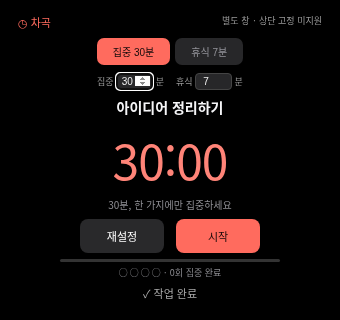
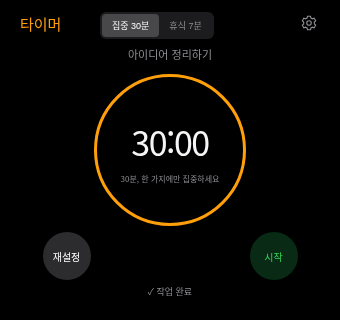
Restore Apple Clock style with orange ring and round controls

Changed region(s): [[0.1176, 0.0312, 0.8824, 0.9375], [0.7647, 0.0312, 0.9412, 0.0938], [0.0588, 0.0312, 0.1765, 0.0938]]

diff --git a/app.js b/app.js
@@ -53,8 +53,9 @@ $('#float-timer').onclick=async()=>{
   if(!floatingWindow){toast('팝업이 차단되었어요. 이 사이트의 팝업을 허용해 주세요.');return}
   const doc=floatingWindow.document;
   doc.documentElement.lang='ko';doc.head.innerHTML='<meta name="viewport" content="width=device-width,initial-scale=1"><title>차곡 · 시계</title>';
-  const style=doc.createElement('style');style.textContent=`*{box-sizing:border-box}body{margin:0;background:#000;color:#f5f5f7;font-family:-apple-system,BlinkMacSystemFont,"Noto Sans KR",sans-serif;text-align:center;padding:22px}header{display:flex;justify-content:space-between;color:#999;font-size:11px}header b{color:#ff9f0a;font-size:13px;font-weight:500}h2{font-size:18px;margin:28px 0 8px;overflow:hidden;text-overflow:ellipsis;white-space:nowrap}p{font-size:11px;color:#8e8e93}.ring{border:5px solid #ff9f0a;border-radius:50%;width:220px;height:220px;margin:22px auto;display:flex;flex-direction:column;align-items:center;justify-content:center}#mini-timer{font-size:40px;font-weight:200;font-variant-numeric:tabular-nums;letter-spacing:-2px}small{font-size:11px;color:#8e8e93;margin-top:10px}.actions{display:flex;justify-content:space-between;max-width:250px;margin:auto}button{cursor:pointer;border:0;border-radius:50%;width:66px;height:66px;background:#29292b;color:#fff;font-size:12px}.primary{background:#092b16;color:#32d74b}.primary.running{background:#332000;color:#ff9f0a}.complete{width:100%;height:32px;border-radius:8px;margin-top:18px;color:#ff9f0a;background:transparent}`;style.textContent+=`body{padding:14px 18px}header{font-size:9px}header b{font-size:11px}h2{font-size:14px;margin:14px 0 4px}p{font-size:10px;margin:0}.ring{border:0;border-radius:0;width:auto;height:auto;margin:18px auto 14px}#mini-timer{font-size:49px;font-weight:200;color:#ff9f0a;letter-spacing:-2px}small{font-size:10px;margin-top:5px}.actions{max-width:220px}button{width:54px;height:54px;font-size:11px}.complete{margin-top:8px;height:28px;font-size:11px}`;style.textContent+=`header b{color:#ff6b5e}.pomo-tabs{display:flex;gap:5px;justify-content:center;margin:15px 0 0}.pomo-tabs button{width:auto;height:27px;padding:0 16px;border-radius:7px;background:#272729;color:#939399;font-size:10px}.pomo-tabs .selected{background:#ff6b5e;color:#160b0b}h2{margin:12px 0 4px}.ring{margin:12px auto}#mini-timer{color:#ff8478;font-size:52px;letter-spacing:-1px;font-weight:300}.actions{justify-content:center;gap:12px}.actions button{height:34px;border-radius:8px;width:84px}.actions .primary{background:#ff6b5e;color:#190909}.actions .primary.running{background:#502b29;color:#ffb3aa}.pomo-track{height:3px;border-radius:3px;background:#333;margin:10px auto 0;max-width:220px;overflow:hidden}.pomo-track div{height:100%;background:#ff6b5e}#mini-pomo-count{color:#8e8e93;font-size:9px;margin:7px 0}.complete{margin:0;height:22px;color:#aaa}body[data-phase=break] #mini-timer{color:#80cfb5}body[data-phase=break] .pomo-tabs .selected{background:#80cfb5}`;style.textContent+=`.pomo-settings{display:flex;justify-content:center;gap:12px;margin-top:8px;font-size:9px;color:#999}.pomo-settings input{width:37px;background:#272729;color:#eee;border:1px solid #444;border-radius:4px;padding:2px;text-align:center;font-size:10px}h2{margin-top:8px}.pomo-tabs{margin-top:8px}.ring{margin:8px auto}.pomo-track{margin-top:7px}#mini-pomo-count{margin:5px 0}`;style.textContent+=`#mini-focus-course{display:none}h2{margin:7px 0 0}.ring{margin:7px auto}#mini-timer{font-size:48px}small{margin-top:3px}.pomo-track{margin-top:6px}.complete{height:20px}#mini-pomo-count{margin:4px 0}`;doc.head.append(style);
-  doc.body.innerHTML=`<header><b>◷ 차곡</b><span>${pinned?'항상 위에 표시 중':'별도 창 · 상단 고정 미지원'}</span></header><div class="pomo-tabs"><button id="mini-pomo-focus">집중 25분</button><button id="mini-pomo-break">휴식 5분</button></div><div class="pomo-settings"><label>집중 <input id="mini-focus-minutes" type="number" min="1" max="180" aria-label="집중 시간"> 분</label><label>휴식 <input id="mini-break-minutes" type="number" min="1" max="180" aria-label="휴식 시간"> 분</label></div><h2 id="mini-focus-name"></h2><p id="mini-focus-course"></p><div class="ring"><span id="mini-timer"></span><small id="mini-timer-state"></small></div><div class="actions"><button id="mini-reset">재설정</button><button id="mini-toggle" class="primary">시작</button></div><div class="pomo-track"><div id="mini-pomo-progress"></div></div><p id="mini-pomo-count"></p><button class="complete" id="mini-complete">✓ 작업 완료</button>`;
+  const style=doc.createElement('style');style.textContent=`*{box-sizing:border-box}body{margin:0;background:#000;color:#f5f5f7;font-family:-apple-system,BlinkMacSystemFont,"Noto Sans KR",sans-serif;text-align:center;padding:22px}header{display:flex;justify-content:space-between;color:#999;font-size:11px}header b{color:#ff9f0a;font-size:13px;font-weight:500}h2{font-size:18px;margin:28px 0 8px;overflow:hidden;text-overflow:ellipsis;white-space:nowrap}p{font-size:11px;color:#8e8e93}.ring{border:5px solid #ff9f0a;border-radius:50%;width:220px;height:220px;margin:22px auto;display:flex;flex-direction:column;align-items:center;justify-content:center}#mini-timer{font-size:40px;font-weight:200;font-variant-numeric:tabular-nums;letter-spacing:-2px}small{font-size:11px;color:#8e8e93;margin-top:10px}.actions{display:flex;justify-content:space-between;max-width:250px;margin:auto}button{cursor:pointer;border:0;border-radius:50%;width:66px;height:66px;background:#29292b;color:#fff;font-size:12px}.primary{background:#092b16;color:#32d74b}.primary.running{background:#332000;color:#ff9f0a}.complete{width:100%;height:32px;border-radius:8px;margin-top:18px;color:#ff9f0a;background:transparent}`;style.textContent+=`body{padding:14px 18px}header{font-size:9px}header b{font-size:11px}h2{font-size:14px;margin:14px 0 4px}p{font-size:10px;margin:0}.ring{border:0;border-radius:0;width:auto;height:auto;margin:18px auto 14px}#mini-timer{font-size:49px;font-weight:200;color:#ff9f0a;letter-spacing:-2px}small{font-size:10px;margin-top:5px}.actions{max-width:220px}button{width:54px;height:54px;font-size:11px}.complete{margin-top:8px;height:28px;font-size:11px}`;style.textContent+=`header b{color:#ff6b5e}.pomo-tabs{display:flex;gap:5px;justify-content:center;margin:15px 0 0}.pomo-tabs button{width:auto;height:27px;padding:0 16px;border-radius:7px;background:#272729;color:#939399;font-size:10px}.pomo-tabs .selected{background:#ff6b5e;color:#160b0b}h2{margin:12px 0 4px}.ring{margin:12px auto}#mini-timer{color:#ff8478;font-size:52px;letter-spacing:-1px;font-weight:300}.actions{justify-content:center;gap:12px}.actions button{height:34px;border-radius:8px;width:84px}.actions .primary{background:#ff6b5e;color:#190909}.actions .primary.running{background:#502b29;color:#ffb3aa}.pomo-track{height:3px;border-radius:3px;background:#333;margin:10px auto 0;max-width:220px;overflow:hidden}.pomo-track div{height:100%;background:#ff6b5e}#mini-pomo-count{color:#8e8e93;font-size:9px;margin:7px 0}.complete{margin:0;height:22px;color:#aaa}body[data-phase=break] #mini-timer{color:#80cfb5}body[data-phase=break] .pomo-tabs .selected{background:#80cfb5}`;style.textContent+=`.pomo-settings{display:flex;justify-content:center;gap:12px;margin-top:8px;font-size:9px;color:#999}.pomo-settings input{width:37px;background:#272729;color:#eee;border:1px solid #444;border-radius:4px;padding:2px;text-align:center;font-size:10px}h2{margin-top:8px}.pomo-tabs{margin-top:8px}.ring{margin:8px auto}.pomo-track{margin-top:7px}#mini-pomo-count{margin:5px 0}`;style.textContent+=`#mini-focus-course{display:none}h2{margin:7px 0 0}.ring{margin:7px auto}#mini-timer{font-size:48px}small{margin-top:3px}.pomo-track{margin-top:6px}.complete{height:20px}#mini-pomo-count{margin:4px 0}`;style.textContent+=`body{padding:12px 20px;font-family:-apple-system,BlinkMacSystemFont,"Helvetica Neue",sans-serif}header{height:22px;align-items:center}header b{font-size:15px;color:#ff9f0a;font-weight:500}#mini-settings-toggle{background:transparent;width:26px;height:24px;font-size:20px;color:#8e8e93;border-radius:0}.pomo-tabs{position:absolute;top:12px;left:100px;margin:0;gap:0;background:#1c1c1e;border-radius:6px;padding:2px}.pomo-tabs button{background:transparent;height:23px;font-size:9px;padding:0 10px;color:#8e8e93;border-radius:4px}.pomo-tabs .selected,body[data-phase=break] .pomo-tabs .selected{background:#48484a;color:#fff}.pomo-settings{position:absolute;top:43px;left:20px;right:20px;z-index:2;background:#2c2c2e;border:1px solid #48484a;border-radius:10px;padding:16px 8px;box-shadow:0 10px 30px #000b;margin:0;color:#eee;font-size:11px}.pomo-settings[hidden]{display:none}.pomo-settings input{font-size:13px;width:43px;padding:5px}h2{font-size:11px;font-weight:400;color:#8e8e93;margin:12px 0 0}.ring{border:3px solid #ff9f0a;border-radius:50%;width:152px;height:152px;margin:12px auto 10px;position:relative}#mini-timer,body[data-phase=break] #mini-timer{color:#f5f5f7;font-size:34px;letter-spacing:-1.5px;font-weight:200}small{font-size:8px;max-width:130px;margin-top:7px;color:#8e8e93}.actions{justify-content:space-between;max-width:255px;position:relative;margin-top:-4px}.actions button{width:48px;height:48px;border-radius:50%;background:#2c2c2e;font-size:10px}.actions .primary{background:#092b16;color:#30d158}.actions .primary.running{background:#332000;color:#ff9f0a}.pomo-track,#mini-pomo-count{display:none}.complete{position:absolute;bottom:16px;left:110px;width:120px;font-size:9px;color:#8e8e93;height:25px}`;doc.head.append(style);
+  doc.body.innerHTML=`<header><b>타이머</b><button id="mini-settings-toggle" aria-label="시간 설정"><svg width="18" height="18" viewBox="0 0 24 24" fill="none" stroke="currentColor" stroke-width="1.5"><circle cx="12" cy="12" r="3"/><path d="m10 3 4 0 .6 2.5 2 .9 2.3-.8 2 3.5-1.8 1.7v2.4l1.8 1.7-2 3.5-2.3-.8-2 .9L14 21h-4l-.6-2.5-2-.9-2.3.8-2-3.5 1.8-1.7v-2.4L3.1 9.1l2-3.5 2.3.8 2-.9Z"/></svg></button><span hidden>${pinned?'항상 위에 표시 중':'별도 창 · 상단 고정 미지원'}</span></header><div class="pomo-tabs"><button id="mini-pomo-focus">집중 25분</button><button id="mini-pomo-break">휴식 5분</button></div><div class="pomo-settings" id="mini-settings" hidden><label>집중 <input id="mini-focus-minutes" type="number" min="1" max="180" aria-label="집중 시간"> 분</label><label>휴식 <input id="mini-break-minutes" type="number" min="1" max="180" aria-label="휴식 시간"> 분</label></div><h2 id="mini-focus-name"></h2><p id="mini-focus-course"></p><div class="ring"><span id="mini-timer"></span><small id="mini-timer-state"></small></div><div class="actions"><button id="mini-reset">재설정</button><button id="mini-toggle" class="primary">시작</button></div><div class="pomo-track"><div id="mini-pomo-progress"></div></div><p id="mini-pomo-count"></p><button class="complete" id="mini-complete">✓ 작업 완료</button>`;
+  doc.getElementById('mini-settings-toggle').onclick=()=>{const panel=doc.getElementById('mini-settings');panel.hidden=!panel.hidden};
   for(const id of ['toggle','reset','complete','pomo-focus','pomo-break'])doc.getElementById('mini-'+id).onclick=()=>{document.getElementById(id).click();};
   for(const id of ['focus-minutes','break-minutes'])doc.getElementById('mini-'+id).onchange=e=>{setPomoMinutes(id,e.target.value);syncFloating()};
   syncFloating();

diff --git a/style.css b/style.css
@@ -4,3 +4,5 @@
 :root{font-family:-apple-system,BlinkMacSystemFont,'Noto Sans KR',sans-serif;color:#f5f5f7;background:#000}header{background:#111113;border-color:#262629}.brand{color:#ff9f0a}.brand b{color:#fff}.header-note{color:#8e8e93}.today{background:#242426;color:#b0b0b5}.eyebrow{color:#ff9f0a}.intro p,.workspace-head p{color:#8e8e93}h1{font-weight:600;letter-spacing:-2px;font-size:48px}.intro{margin-bottom:36px}.workspace-head h2 span{background:#30220d;color:#ff9f0a}.primary{background:#ff9f0a;color:#000}.steps{background:#1c1c1e;color:#747479}.steps .selected{color:#ff9f0a}.steps i{color:#48484a}.course{background:#1c1c1e;border-color:#29292c}.course-heading{border-color:#303034}.course-icon,.course:nth-child(2n) .course-icon{background:#33250f;color:#ff9f0a}.course-heading small{color:#8e8e93}.task{border-color:#303034}.task.child{background:#161618}.task.active{background:#30230f}.task-name{color:#f2f2f7}.task-meta{color:#8e8e93}.time-input{background:#2c2c2e;border-color:#3a3a3c;color:#ff9f0a}.task-play{background:#3a2b14;color:#ff9f0a}.check{border-color:#636366}.done .check{background:#ff9f0a;border-color:#ff9f0a;color:#000}.done .task-name{color:#636366}.muted-button{color:#8e8e93}.add-task{color:#ff9f0a}.tip{color:#747479}.timer-panel{background:#1c1c1e;border-color:#29292c;padding:22px}.timer-topbar{display:flex;align-items:center;justify-content:space-between;margin-bottom:21px;font-size:17px;font-weight:600}.timer-topbar button{color:#ff9f0a;font-size:10px;padding:5px 0}.clock-tabs{display:flex;background:#303034;border-radius:8px;padding:3px;margin-bottom:24px}.clock-tabs button{flex:1;color:#99999f;font-size:11px;padding:7px;border-radius:6px}.clock-tabs .tab-active{background:#636366;color:#fff;box-shadow:0 1px 3px #0005}.panel-label{color:#8e8e93;font-size:8px;letter-spacing:2px}.live-dot{background:#ff9f0a}.timer-panel h3{text-align:center;font-weight:500;margin-top:24px}.timer-panel>p{text-align:center;color:#8e8e93}.clock{border:5px solid #ff9f0a;box-shadow:none;width:224px;height:224px;margin:26px auto}.clock>span{font-size:39px;font-weight:200;letter-spacing:-2px}.clock small{color:#8e8e93;font-size:10px}.timer-actions{justify-content:space-between;max-width:232px;margin:auto}.timer-actions .primary,.icon-button{border:0;border-radius:50%;width:67px;height:67px;flex:none;font-size:12px;font-weight:400;padding:0}.timer-actions .primary{background:#092b16;color:#32d74b}.timer-actions .primary.running{background:#332000;color:#ff9f0a}.icon-button{background:#333336;color:#f5f5f7}.complete-button{border-color:#38383b;color:#ff9f0a;margin-top:22px}.timer-foot{color:#747479;font-size:9px;line-height:1.7}.summary{background:#1c1c1e;border-color:#29292c}.summary h3 span{color:#ff9f0a}.summary>div:not(.progress-track){color:#8e8e93}.summary b{color:#ff9f0a}.progress-track{background:#38383b}.progress-track>div{background:#ff9f0a}.summary p,.quote{color:#747479}footer{border-color:#29292c;color:#747479}dialog{background:#1c1c1e;color:#fff;border-color:#38383b}dialog input{background:#303034;color:#fff;border-color:#48484a}dialog p{color:#8e8e93}#toast{background:#3a3a3c;color:#fff;box-shadow:0 5px 25px #0008}.empty{color:#8e8e93}.layout{grid-template-columns:minmax(0,1fr) 330px}@media(max-width:850px){.layout{grid-template-columns:1fr}h1{font-size:39px}}@media(max-width:520px){h1{font-size:36px}}
 .pomo-tabs{display:flex;justify-content:center;gap:7px;margin:8px 0 15px}.pomo-tabs button{padding:8px 15px;background:#2c2c2e;color:#8e8e93;border-radius:8px;font-size:11px}.pomo-tabs .selected{background:#ff6b5e;color:#1c0b09}.pomo-track{height:3px;background:#333;border-radius:3px;overflow:hidden}.pomo-track div{height:100%;background:#ff6b5e}#pomo-count{text-align:center;font-size:10px;letter-spacing:1px;color:#8e8e93;margin:10px 0 20px}.clock{border-color:#ff6b5e}.clock>span{color:#ff9a8f}.timer-panel .timer-topbar button{color:#ff9a8f}
 .pomo-settings{display:flex;justify-content:center;gap:15px;color:#8e8e93;font-size:10px;margin:0 0 13px}.pomo-settings input{background:#2c2c2e;color:#f5f5f7;border:1px solid #48484a;border-radius:5px;width:43px;padding:4px;text-align:center;font-size:11px}
+/* Apple Clock palette and controls */
+.pomo-tabs .selected{background:#48484a;color:#fff}.pomo-track div{background:#ff9f0a}.clock{border-color:#ff9f0a}.clock>span{color:#f5f5f7;font-weight:200}.timer-panel .timer-topbar button{color:#ff9f0a}.pomo-tabs{background:#303034;border-radius:8px;padding:3px;gap:0}.pomo-tabs button{flex:1;background:transparent}.pomo-tabs .selected{box-shadow:0 1px 3px #0005}.pomo-settings{color:#8e8e93}.clock-tabs{margin-bottom:15px}
